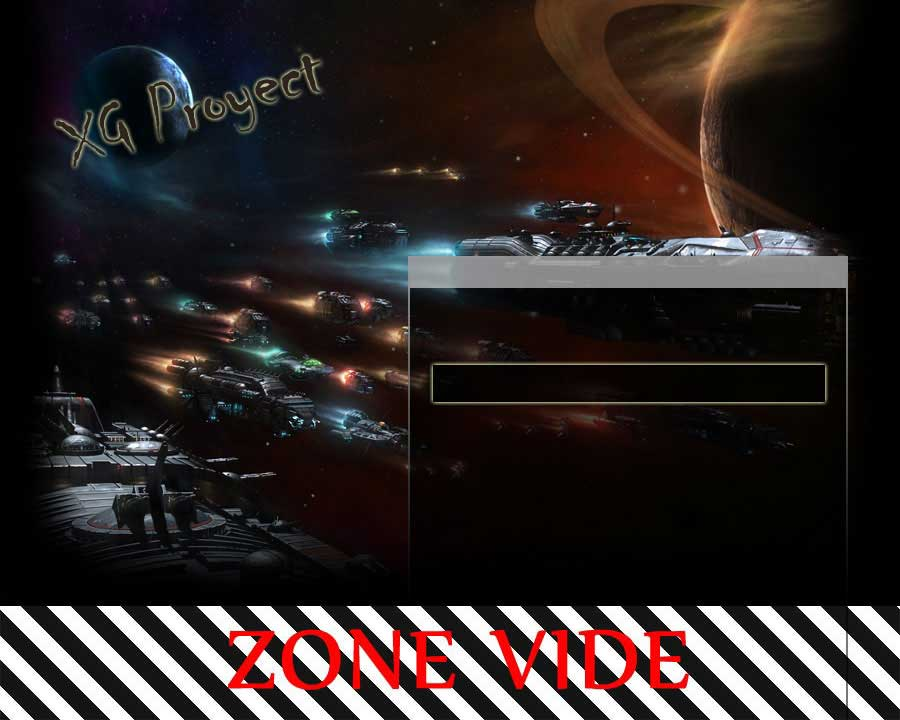
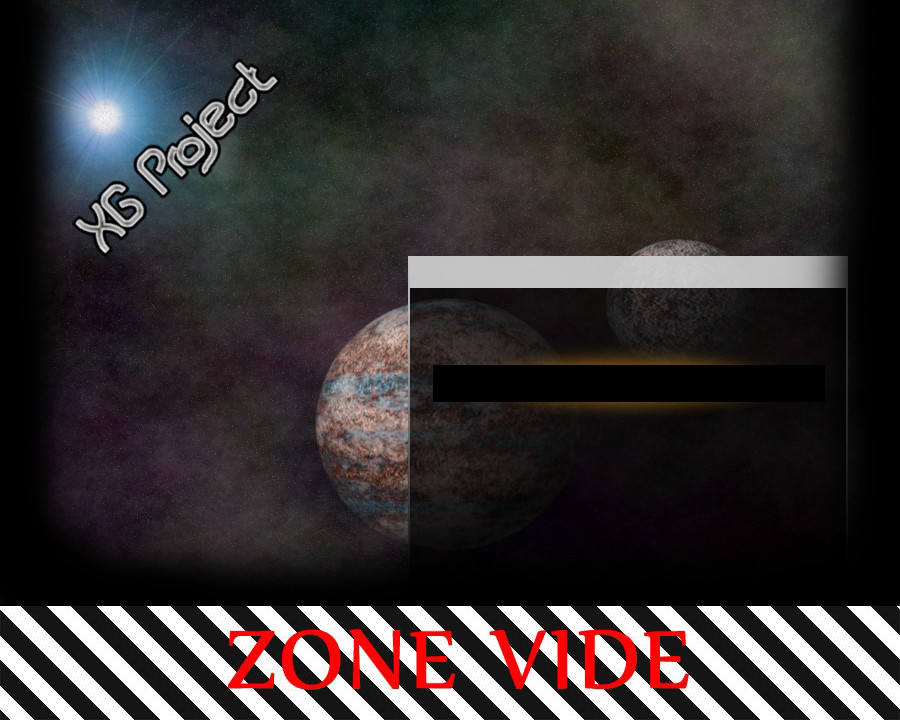
Changed some images, new theme

diff --git a/styles/skins/ogame/formate.css b/styles/skins/ogame/formate.css
@@ -1,0 +1,318 @@
+., #, td, th, textarea, body, table
+{
+  font-family	: Tahoma,sans-serif;
+  font-size	: 11px;
+}
+
+img
+{
+  border               : 0px;
+}
+
+p table
+{
+  border               : 0px;
+}
+
+p td
+{
+  text-align           : center;
+  font-size            : 11px;
+  font-family          : Tahoma,sans-serif;
+}
+
+table table
+{
+  border               : 0px;
+}
+
+table table td
+{
+  font-size            : 11px;
+  font-family          : Tahoma,sans-serif;
+}
+
+body
+{
+  color                : #E6EBFB;
+  margin-top           : 1px;
+  margin-left          : 1px;
+  background-color     : #040e1e;
+  background-image     : url(img/background.jpg);
+  background-attachment: fixed;
+  background-repeat    : no-repeat;
+  background-position  : top right;
+  scrollbar-arrow-color: #E6EBFB;
+  scrollbar-base-color: #344566;
+  scrollbar-track-color: #344566;
+  scrollbar-face-color: #344566;
+  scrollbar-highlight-color: #344566;
+  scrollbar-3dlight-color: #465673;
+  scrollbar-darkshadow-color: #344566;
+  scrollbar-shadow-color: #465673;
+  font-size            : 11px;
+  font-family          : Tahoma,sans-serif;
+}
+
+body.style{
+	background-image: none;
+}
+
+body.style table {
+	margin:0px;
+}
+
+body form table th table input
+{
+  width: 60px;
+}
+
+th, td.a, td.b, td.c, td.f, input, select,
+td.g, td.h, td.i, td.j, td.k, td.l, td.m,
+td.n, td.o, td.q, td.r, td.v, .style td,
+textarea, p td, table.s th img
+{
+  border               : 1px #415680 solid;
+  font-size            : 11px;
+  font-family          : Tahoma,sans-serif;
+}
+
+th, td.a, td.b, td.c, td.f, input, select, td.g,
+td.h, td.i, td.j, td.k, td.m, td.o, td.q, td.r,
+td.v, td.s, .style td, p td
+{
+  background-color     : #344566;
+}
+
+th
+{
+  text-align           : center;
+  padding-left         : 3px;
+  padding-right        : 3px;
+}
+
+td.a
+{
+  height               : 39px;
+  text-align           : center;
+}
+
+td.b
+{
+  padding              : 3px;
+}
+
+td.c
+{
+  font-weight          : bold;
+  color                : #E6EBFB;
+  padding-left         : 3px;
+  background-image     : url(img/bg1.gif);
+}
+
+td.f, input, select, textarea
+{
+  color                : #E6EBFB;
+  background-color     : #344566;
+}
+
+textarea
+{
+  width                : 100%;
+}
+
+td.k input
+{
+  text-align           : left;
+}
+
+td.g
+{
+  font-weight          : bold;
+  text-align           : right;
+  color                : #E6EBFB;
+}
+
+td.h
+{
+  text-align           : center;
+  color                : #E6EBFB;
+}
+
+td.i
+{
+  text-align           : center;
+  color                : #E6EBFB;
+}
+
+td.j
+{
+  text-align           : center;
+  color                : #E6EBFB;
+}
+
+td.k, td.k input
+{
+  text-align           : center;
+  color                : #E6EBFB;
+}
+
+td.l
+{
+  background-color     : #344566;
+  color                : #E6EBFB;
+  vertical-align       : top;
+  padding              : 3px;
+  background-image     : url(img/bg2.gif);
+}
+
+td.m
+{
+  font-weight          : bold;
+  text-align           : right;
+  width                : 86px;
+  color                : #E6EBFB;
+}
+
+td.n
+{
+  font-weight          : bold;
+  text-align           : right;
+  width                : 89px;
+  text-align           : center;
+  color                : #E6EBFB;
+}
+
+td.o
+{
+  text-align           : center;
+  color                : #E6EBFB;
+}
+
+td.q
+{
+  font-weight          : bold;
+  font-size            : 11px;
+  font-family          : Tahoma,sans-serif;
+  text-align           : center;
+  vertical-align       : middle;
+  color                : #E6EBFB;
+}
+
+td.r
+{
+  text-align           : right;
+  color                : #E6EBFB;
+}
+
+td.v
+{
+  font-weight          : bold;
+  text-align           : right;
+  color                : #f7f7f7;
+}
+
+td.s
+{
+  color                : #E6EBFB;
+}
+
+table.s th
+{
+  border               : 0px;
+}
+
+table.s th img
+{
+  width                : 89px;
+  height               : 89px;
+}
+
+div.z
+{
+  font-weight          : bold;
+  color                : #E6EBFB;
+}
+
+a
+{
+  color                : #E6EBFB;
+  text-decoration      : none;
+  font-weight          : bold;
+}
+
+a.s
+{
+  color                : #E6EBFB;
+}
+
+a.t
+{
+  color                : #E6EBFB;
+}
+
+a:hover
+{
+  color                : #CDD7F8;
+  text-decoration      : underline;
+}
+
+.style td
+{
+  color                : #E6EBFB;
+  border-top           : 0px;
+  font-size            : 11px;
+  font-family          : Tahoma,sans-serif;
+}
+
+.style div a
+{
+  height               : 100%;
+  width                : 100%;
+  color                : #f2f2f2;
+  font-size            : 11px;
+  font-family          : Tahoma,sans-serif;
+}
+
+.style div a:link
+{
+  height               : 100%;
+  width                : 100%;
+  color                : #f2f2f2;
+  font-size            : 11px;
+  font-family          : Tahoma,sans-serif;
+}
+
+.style div a:visited
+{
+  height               : 100%;
+  width                : 100%;
+  color                : #f2f2f2;
+  font-size            : 11px;
+  font-family          : Tahoma,sans-serif;
+}
+
+.style div a:hover
+{
+  background-color     : #415680;
+  height               : 100%;
+  width                : 100%;
+  text-decoration      : none;
+  font-size            : 11px;
+  font-family          : Tahoma,sans-serif;
+  color                : #E6EBFB;
+}
+
+.style
+{
+  margin-top           : 15px;
+}
+
+h1
+{
+  font-size            : 11px;
+  font-family          : Tahoma,sans-serif;
+  border-bottom        : 0px #344566 solid;
+  width                : 98%;
+  text-align           : center;
+}

diff --git a/includes/GeneralFunctions.php b/includes/GeneralFunctions.php
@@ -143,7 +143,7 @@ function display ($page, $topnav = TRUE, $metatags = '', $AdminPage = FALSE, $me
 function StdUserHeader ($metatags = '')
 {
 	$parse['-title-']	= read_config ( 'game_name' );
-	$parse['-favi-']	= "<link rel=\"shortcut icon\" href=\"./favicon.ico\">\n";
+	$parse['-favi-']	= "<link rel=\"shortcut icon\" href=\"./favicon.png\">\n";
 	$parse['-meta-']	= "<meta http-equiv=\"Content-Type\" content=\"text/html;charset=UTF-8\">\n";
 	$parse['-meta-']   .= "<meta name=\"generator\" content=\"XG Project " . VERSION . "\" />\n";
 	$parse['-meta-']   .= "<meta charset=\"UTF-8\">";
@@ -177,7 +177,7 @@ function AdminUserHeader ($metatags = '')
 	}
 
 
-	$parse['-favi-']	= 	"<link rel=\"shortcut icon\" href=\"./../favicon.ico\">\n";
+	$parse['-favi-']	= 	"<link rel=\"shortcut icon\" href=\"./../favicon.png\">\n";
 	$parse['-style-']	=	"<link rel=\"stylesheet\" type=\"text/css\" href=\"./../styles/css/admin.css\">\n";
 	$parse['-meta-']	= 	"<script type=\"text/javascript\" src=\"./../js/overlib-min.js\"></script>\n";
 	$parse['-meta-']   .=	"<meta charset=\"UTF-8\">";

diff --git a/adm/index.php b/adm/index.php
@@ -20,7 +20,7 @@ if ($user['authlevel'] < 1) die(message ($lang['404_page']));
 	$page .= "<head>\n";
 	$page .= "<meta http-equiv=\"Content-Type\" content=\"text/html; charset=UTF-8\" />\n";
 	$page .= "<title>". read_config ( 'game_name' ) ." - Admin CP</title>\n";
-	$page .= "<link rel=\"shortcut icon\" href=\"./../favicon.ico\">\n";
+	$page .= "<link rel=\"shortcut icon\" href=\"./../favicon.png\">\n";
 	$page .= "</head>\n";
 	$page .= "<frameset cols=\"180,*\" frameborder=\"no\" border=\"0\" framespacing=\"0\">\n";
 	$page .= "<frame src=\"menu.php\" name=\"rightFrame\" id=\"rightFrame\"/>\n";

diff --git a/language/spanish/CHANGELOG.php b/language/spanish/CHANGELOG.php
@@ -4,6 +4,12 @@ $lang['Version']     = 'Versión';
 $lang['Description'] = 'Descripción';
 $lang['changelog']   = array(
 
+'2.10.11' => 'Sin fecha
+- [Cambios]
+- Se cambian las imágenes.-
+- Se añade un nuevo tema por defecto, el de XG Project, que será 100% libre.-
+',
+
 '2.10.10' => '21/11/2014
 - [Cambios]
 - Se cambian las referencias a la nueva web en xgproject.org.-

diff --git a/language/english/CHANGELOG.php b/language/english/CHANGELOG.php
@@ -4,6 +4,12 @@ $lang['Version']     = 'Version';
 $lang['Description'] = 'Description';
 $lang['changelog']   = array(
 
+'2.10.11' => 'Sin fecha
+- [Cambios]
+- Se cambian las imágenes.-
+- Se añade un nuevo tema por defecto, el de XG Project, que será 100% libre.-
+',
+
 '2.10.10' => '21/11/2014
 - [Cambios]
 - Se cambian las referencias a la nueva web en xgproject.org.-

diff --git a/includes/constants.php b/includes/constants.php
@@ -10,7 +10,7 @@
 if ( !defined('INSIDE') ) die(header("location:../"));
 
 	// VERSION
-	define('SYSTEM_VERSION' 			, '2.10.10');
+	define('SYSTEM_VERSION' 			, '2.10.11');
 
 	// TEMPLATES DEFAULT SETTINGS
 	define('SKIN_PATH'					, 'styles/skins/');

diff --git a/README.md b/README.md
@@ -24,7 +24,7 @@ Si tienes alguna versión anterior a la 2.0:
 Si tienes entre la versión 2.0 y 2.9:
 
 1. Actualiza a la 2.9.8
-2. Actualiza a la 2.10.10
+2. Actualiza a la 2.10.11
 
 Si tienes la versión 2.9.0 o superior puedes actualizar directamente a la 2.10.9
 
